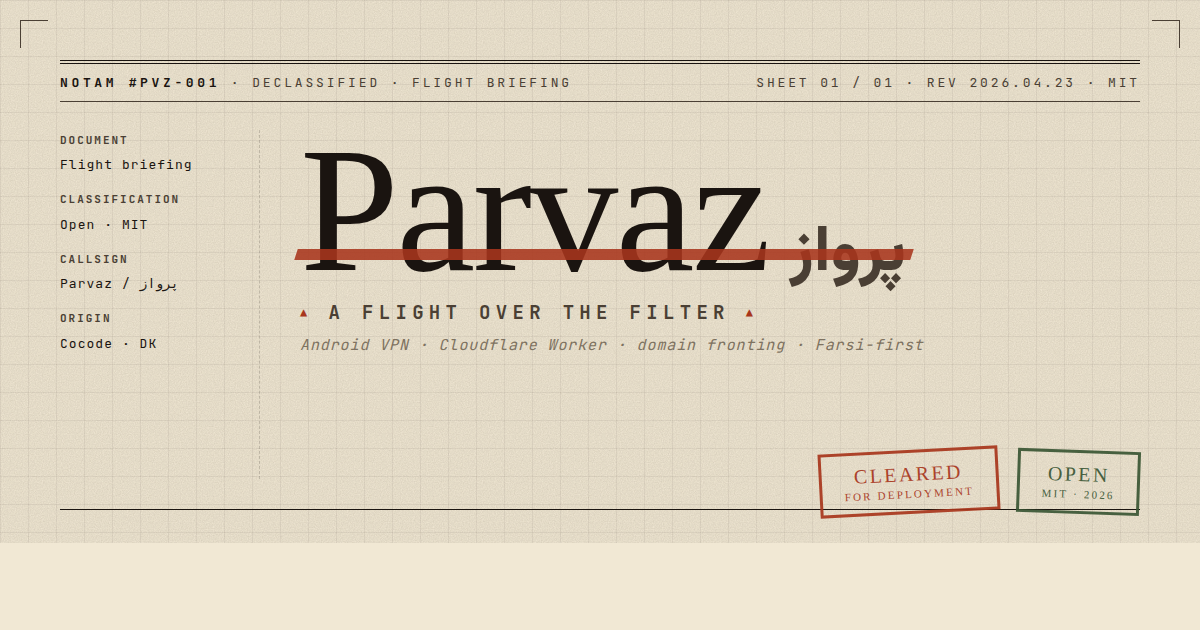
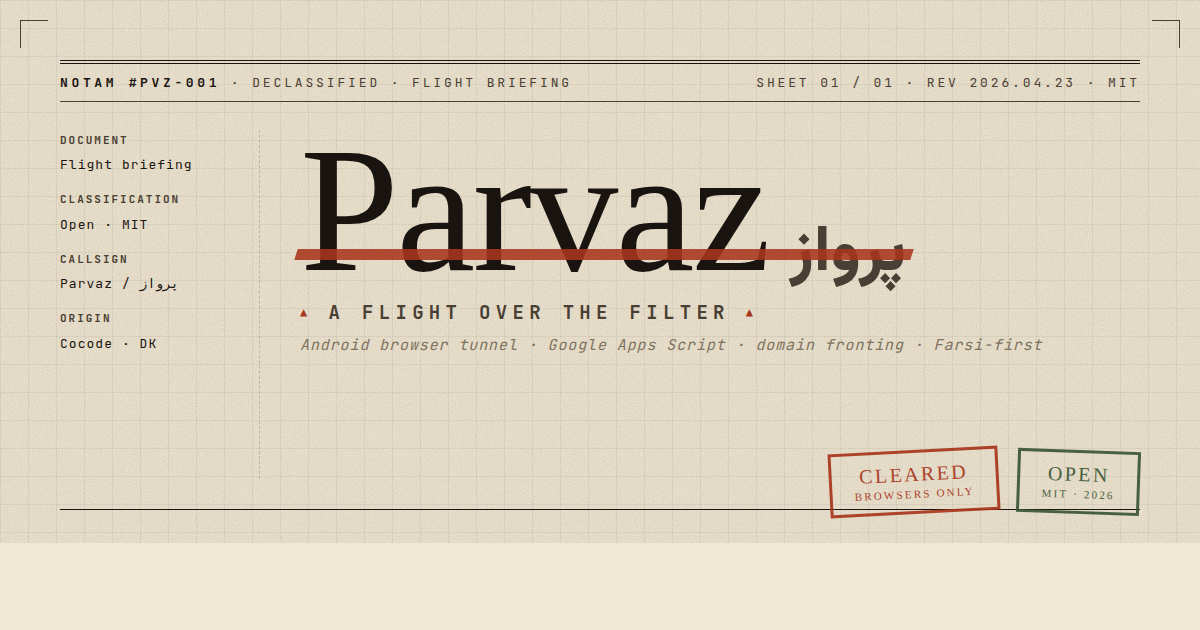
docs(website): revert EN + FA pages + og.png to Apps Script
Last stale surface after the Cloudflare revert. Copy edits only —
structural CSS/HTML unchanged. Kept NOTAM aesthetic intact. Honest
about browser-only scope everywhere.

- Titles / meta / Open Graph / Twitter / JSON-LD: flipped from
  "Cloudflare Worker" to "Apps Script"; programmingLanguage drops JS
- §1 Abstract: re-framed as browser tunnel; explicit "scope is
  browsers only"; links to MasterHttpRelayVPN-RUST as prior art
- §2 Flight path diagram: google edge :443, script.google.com,
  UrlFetchApp.fetch(target.com)
- §3 NOTAM body: Google Apps Script ToS disclaimer (not Cloudflare AUP)
- §4 Specs: SNI-rewrite fast path for google.com family; honest
  browsers-only spec; no more "raw TCP" claims
- §5 Boarding procedure: https://script.google.com deploy, not
  wrangler; parvaz:// URL now shows <deployment-id>/<access-key>
  instead of worker-host
- §6 Monorepo schematic: worker/ removed; protocol/ codec/ mitm/
  dispatcher/ visible
- §7 Ground support: points at reference/apps_script/Code.gs and
  MasterHttpRelayVPN-RUST for prebuilt APKs
- og-image.html + og.png: regenerated with new chips — ANDROID ·
  BROWSER / APPS SCRIPT RELAY / KOTLIN + GO / MITM + SNI REWRITE /
  FARSI-FIRST / ZERO TELEMETRY; "Cleared" subcaption now reads
  "browsers only"

zero Cloudflare references remain anywhere in the repo (grep-verified).

Changed region(s): [[0.3083, 0.5429, 0.8633, 0.573], [0.6783, 0.6937, 0.8325, 0.8444]]

diff --git a/website/fa/index.html b/website/fa/index.html
@@ -3,10 +3,10 @@
 <head>
 <meta charset="UTF-8"/>
 <meta name="viewport" content="width=device-width, initial-scale=1.0"/>
-<title>پرواز — پرواز از روی فیلتر. اپلیکیشن VPN اندروید روی Cloudflare Workers</title>
-<meta name="description" content="پرواز یک اپلیکیشن VPN اندروید برای کاربران ایرانی است که با تکنیک domain fronting، ترافیک گوشی شما را از طریق یک Cloudflare Worker که خودتان مستقر کردهاید عبور میدهد. یک APK، یک لمس، رابط فارسی."/>
+<title>پرواز — پرواز از روی فیلتر. تونل مرورگر اندروید از روی Apps Script</title>
+<meta name="description" content="پرواز یک تونل مرورگر اندروید با اولویت زبان فارسی برای کاربران ایرانی است که ترافیک Chrome / Firefox را از طریق یک رلهٔ Google Apps Script که خودتان مستقر کردهاید، با پنهانسازی TLS SNI عبور میدهد."/>
 <meta name="robots" content="index, follow"/>
-<meta name="keywords" content="پرواز, vpn اندروید, ایران, دور زدن فیلتر, کلودفلر, دامین فرانتینگ, vpnservice, کاتلین, go, فارسی, متنباز"/>
+<meta name="keywords" content="پرواز, تونل مرورگر, اندروید, ایران, اپس اسکریپت, دامین فرانتینگ, masterhttprelayvpn, دور زدن فیلتر, vpnservice, کاتلین, go, فارسی, متنباز"/>
 <link rel="canonical" href="https://cocodedk.github.io/parvaz/fa/"/>
 <link rel="alternate" hreflang="en" href="https://cocodedk.github.io/parvaz/"/>
 <link rel="alternate" hreflang="fa" href="https://cocodedk.github.io/parvaz/fa/"/>
@@ -15,7 +15,7 @@
 <meta property="og:type" content="website"/>
 <meta property="og:site_name" content="پرواز"/>
 <meta property="og:title" content="پرواز — پرواز از روی فیلتر"/>
-<meta property="og:description" content="اپلیکیشن VPN اندروید برای کاربران ایرانی. ترافیک گوشی شما را از یک Cloudflare Worker که خودتان مستقر میکنید عبور میدهد. یک APK، یک لمس، رابط کاملاً فارسی."/>
+<meta property="og:description" content="تونل مرورگر اندروید با اولویت فارسی — ترافیک Chrome / Firefox از طریق رلهٔ Google Apps Script شخصی شما با پنهانسازی SNI. یک APK، یک QR، تمام."/>
 <meta property="og:url" content="https://cocodedk.github.io/parvaz/fa/"/>
 <meta property="og:image" content="https://cocodedk.github.io/parvaz/og.png"/>
 <meta property="og:image:width" content="1200"/>
@@ -26,7 +26,7 @@
 
 <meta name="twitter:card" content="summary_large_image"/>
 <meta name="twitter:title" content="پرواز — پرواز از روی فیلتر"/>
-<meta name="twitter:description" content="اپلیکیشن VPN اندروید برای کاربران ایرانی — domain fronting از طریق Cloudflare Worker."/>
+<meta name="twitter:description" content="تونل مرورگر اندروید با اولویت فارسی — domain fronting از طریق Google Apps Script."/>
 <meta name="twitter:image" content="https://cocodedk.github.io/parvaz/og.png"/>
 
 <link rel="icon" type="image/svg+xml" href="../favicon.svg"/>
@@ -40,12 +40,12 @@
   "@context": "https://schema.org",
   "@type": "SoftwareApplication",
   "name": "پرواز",
-  "description": "اپلیکیشن VPN اندروید ساختهشده برای کاربران ایرانی بدون دانش فنی — ترافیک گوشی را از طریق یک Cloudflare Worker که خودتان یا یک دوست آشنا بهفن مستقر میکند عبور میدهد. رابط کاربری Kotlin + Compose به صورت پیشفرض فارسی، هستهٔ Go برای SOCKS5، سرور ~۵۰ خط JavaScript در Cloudflare Worker.",
+  "description": "تونل مرورگر اندروید ساختهشده برای کاربران ایرانی بدون دانش فنی — ترافیک Chrome / Firefox را از طریق یک رلهٔ Google Apps Script که خودتان یا دوستی آشنا بهفن مستقر میکند، با پنهانسازی TLS SNI و MITM محلی روی دستگاه عبور میدهد. رابط Kotlin + Compose به صورت پیشفرض فارسی، هستهٔ Go برای SOCKS5. اپلیکیشنهای غیرمرورگری (بانک، پیامرسان، استریمینگ) به دلیل محدودیت پیشفرض MITM در اندروید ۷+ تونل نمیشوند — محدودهٔ صادقانه: فقط مرورگر.",
   "url": "https://cocodedk.github.io/parvaz/fa/",
   "downloadUrl": "https://github.com/cocodedk/parvaz/releases/latest/download/Parvaz.apk",
   "applicationCategory": "UtilitiesApplication",
   "operatingSystem": "Android 7.0+",
-  "programmingLanguage": ["Kotlin", "Go", "JavaScript"],
+  "programmingLanguage": ["Kotlin", "Go"],
   "license": "https://opensource.org/licenses/MIT",
   "inLanguage": "fa",
   "offers": { "@type": "Offer", "price": "0", "priceCurrency": "USD" },
@@ -81,7 +81,7 @@
     <div>
       <h1 class="brand"><span class="fa-name">پرواز</span><span class="en-name">Parvaz</span></h1>
       <p class="tagline">پرواز از روی فیلتر</p>
-      <p class="subtitle">VPN اندروید · Cloudflare Worker · دامین فرانتینگ · اولویت با فارسی</p>
+      <p class="subtitle">تونل مرورگر اندروید · Google Apps Script · دامین فرانتینگ · اولویت با فارسی</p>
       <div class="cta-row">
         <a href="https://github.com/cocodedk/parvaz/releases/latest/download/Parvaz.apk" class="btn primary">آغاز فرود · دانلود APK</a>
         <a href="https://github.com/cocodedk/parvaz" class="btn">طرح پرواز · کد منبع</a>
@@ -97,8 +97,8 @@
       <span class="sec-stamp">شرح مأموریت</span>
     </div>
     <div class="sec-body">
-      <p>پرواز یک <strong>اپلیکیشن VPN اندروید</strong> برای کاربران ایرانی بدون دانش فنی است. یک فرد آشنا به فن — خویشاوند، داوطلب، فعال — یک <strong>Cloudflare Worker</strong> یکفایلی را روی حساب کاربری خودش مستقر میکند؛ کاربر یک لینک <code>parvaz://</code> را از تلگرام دریافت میکند، QR را اسکن میکند یا روی «چسباندن» میزند، و تمام ترافیک گوشی از طریق Worker آن شخص عبور میکند. TLS SNI به یک دامنهٔ محبوب کلودفلر، Host به <code>*.workers.dev</code> شما.</p>
-      <p>یک APK. یک لمس. به صورت پیشفرض فارسی. بدون Play Store، بدون ثبتنام، بدون تلهمتری. رابط کاربری Kotlin + Compose، هستهٔ Go برای SOCKS5، سرور ~۵۰ خط JavaScript. همه متنباز با مجوز MIT.</p>
+      <p>پرواز یک <strong>تونل مرورگر اندروید</strong> با اولویت فارسی برای کاربران ایرانی بدون دانش فنی است. یک فرد آشنا به فن — خویشاوند، داوطلب، فعال — پروندهٔ upstream <code>Code.gs</code> متعلق به MasterHttpRelayVPN را روی حساب Google خود مستقر میکند. کاربر لینک <code>parvaz://</code> را از تلگرام دریافت میکند، QR را اسکن یا «چسباندن» را میزند، یک بار گواهی MITM را از تنظیمات اندروید نصب میکند، و Connect را لمس میکند. ترافیک Chrome و Firefox از طریق Apps Script عبور میکند — TLS SNI <code>www.google.com</code>، HTTP Host <code>script.google.com</code>.</p>
+      <p><strong>محدودهٔ پرواز فقط مرورگر است.</strong> Instagram / Telegram / WhatsApp / اپهای بانکی به گواهی نصبشدهٔ کاربر اعتماد نمیکنند و تونل نمیشوند — این محدودیت عمومی MITM در اندروید است، نه باگ پرواز. معماری با پورت <a href="https://github.com/therealaleph/MasterHttpRelayVPN-RUST">MasterHttpRelayVPN-RUST</a> همتراز است؛ تفاوت پرواز در زیباییشناسی NOTAM، رابط پیشفرض فارسی، و راهاندازی سادهتر است.</p>
     </div>
   </section>
 
@@ -126,19 +126,19 @@
                    │
                    │  envelope:  { k · m · u · h · b }
                    │
-                   │  TLS  SNI   <span class="hl">www.cloudflare.com</span>         <span class="note">← DPI sees this</span>
-                   │  HTTP Host  <span class="secret">your-worker.workers.dev</span>   <span class="note">← real routing</span>
+                   │  TLS  SNI   <span class="hl">www.google.com</span>             <span class="note">← DPI sees this</span>
+                   │  HTTP Host  <span class="secret">script.google.com</span>          <span class="note">← real routing</span>
                    ▼
        ═══════════════════════════════
-       ║   cloudflare edge :443      ║
+       ║   google edge    :443       ║
        ═══════════════════════════════
                    │
-                   │  <span class="dir">Cloudflare routes internally by Host</span>
+                   │  <span class="dir">Google routes internally by Host</span>
                    ▼
   ┌───────────────────────────────────┐
-  │  your worker.js deployment        │   <span class="note">◀─ your cloudflare account</span>
+  │  your Code.gs deployment          │   <span class="note">◀─ your google account</span>
   └────────────────┬──────────────────┘
-                   │  connect() raw TCP → target.com
+                   │  UrlFetchApp.fetch(target.com)
                    ▼
             { s · h · b }                  <span class="note">← response envelope</span>
 </pre>
@@ -161,7 +161,7 @@
         <span>NOTAM A0001/26</span>
       </div>
       <div class="notam-body">
-        <strong>سیاست استفادهٔ قابلقبول Cloudflare دربارهٔ سرویسهای پراکسی سختگیر است.</strong> Worker را فقط روی حساب کاربری <em>خودتان</em> در Cloudflare مستقر کنید — متمرکزسازی مستقرسازی یا توزیع Worker به افراد ناشناس ممنوع است. فقط برای استفادهٔ شخصی، تحقیقاتی و آموزشی.
+        <strong>شرایط استفادهٔ Google Apps Script این کاربرد را ممنوع اعلام کرده است.</strong> <code>Code.gs</code> را فقط روی حساب Google <em>خودتان</em> مستقر کنید — مستقرسازی متمرکز یا توزیع یک deployment مشترک ممنوع است. فقط برای استفادهٔ شخصی، تحقیقاتی و آموزشی. اگر با پیامدهای حقوقی آشنا نیستید، آن را مستقر نکنید.
       </div>
     </div>
   </section>
@@ -173,12 +173,12 @@
       <span class="sec-stamp">ویژگیها</span>
     </div>
     <div class="specs">
-      <div class="spec"><span class="spec-num">۰۱</span><span class="spec-key">دامین فرانتینگ</span><span class="spec-val">TLS SNI یک دامنهٔ پرترافیک کلودفلر است. HTTP Host آدرس <code>*.workers.dev</code> شماست. DPI فقط «ترافیک کلودفلر» را میبیند؛ کلودفلر بر اساس Host واقعی به صورت داخلی مسیریابی میکند.</span></div>
-      <div class="spec"><span class="spec-num">۰۲</span><span class="spec-key">یک لمس، فارسی اول</span><span class="spec-val">لینک <code>parvaz://</code> را از تلگرام بچسبانید یا QR را اسکن کنید → Connect را بزنید. <code>VpnService</code> همهٔ ترافیک گوشی را میگیرد. رابط به صورت پیشفرض فارسی است؛ انگلیسی فقط بازنویسی.</span></div>
-      <div class="spec"><span class="spec-num">۰۳</span><span class="spec-key">APK متنباز</span><span class="spec-val">رابط Kotlin + Compose، هستهٔ تعبیهشدهٔ Go برای SOCKS5، Worker ~۵۰ خطی JavaScript. بدون وابستگی انحصاری. خارج از Play Store — فقط F-Droid و sideload.</span></div>
-      <div class="spec"><span class="spec-num">۰۴</span><span class="spec-key">دستنامهٔ میدانی</span><span class="spec-val">زیباییشناسی NOTAM. تایپوگرافی Vazirmatn (فارسی)، Redaction (نمایشی)، JetBrains Mono (کد). رابط فارسی از پایه — RTL درجه یک، نه یک الحاقیه.</span></div>
-      <div class="spec"><span class="spec-num">۰۵</span><span class="spec-key">عبور خام TCP</span><span class="spec-val">Worker از API <code>cloudflare:sockets</code> <code>connect()</code> استفاده میکند — سوکت TCP خروجی واقعی باز میکند. بایتها بدون دستکاری عبور میکنند — بدون MITM، بدون نصب CA، همهٔ اپها کار میکنند.</span></div>
-      <div class="spec"><span class="spec-num">۰۶</span><span class="spec-key">بدون تلهمتری</span><span class="spec-val">بدون آنالیتیکس، بدون پینگ بهروزرسانی، بدون گزارش کرش. کلید دسترسی شما در <code>EncryptedSharedPreferences</code> میماند. هیچ تماس شبکهای به خارج، جز خود Worker.</span></div>
+      <div class="spec"><span class="spec-num">۰۱</span><span class="spec-key">دامین فرانتینگ</span><span class="spec-val">TLS SNI میگوید <code>www.google.com</code>. HTTP Host میگوید <code>script.google.com</code>. DPI فقط فرانت را میبیند؛ Google بر اساس Host واقعی به صورت داخلی مسیریابی میکند.</span></div>
+      <div class="spec"><span class="spec-num">۰۲</span><span class="spec-key">راهاندازی فارسی اول</span><span class="spec-val">لینک <code>parvaz://</code> را از تلگرام بچسبانید یا QR را اسکن کنید → یک بار گواهی MITM را از تنظیمات نصب کنید → Connect بزنید. رابط به صورت پیشفرض فارسی است؛ انگلیسی فقط بازنویسی.</span></div>
+      <div class="spec"><span class="spec-num">۰۳</span><span class="spec-key">فقط مرورگر — صادقانه</span><span class="spec-val">Chrome و Firefox بهدرستی تونل میشوند. Instagram، Telegram، WhatsApp، اپهای بانکی به صورت پیشفرض به گواهی نصبشدهٔ کاربر اعتماد نمیکنند و تونل <em>نمیشوند</em>. محدودیت عمومی MITM اندروید — برای آنها xray + VPS جداگانه نیاز است.</span></div>
+      <div class="spec"><span class="spec-num">۰۴</span><span class="spec-key">مسیر سریع SNI-rewrite</span><span class="spec-val">دامنههای متعلق به Google (google.com، youtube.com، fonts.googleapis.com و …) مستقیماً با بازنویسی SNI تونل میشوند و از Apps Script عبور نمیکنند. بدون MITM، بدون سهمیهٔ Apps Script، سرعت کامل.</span></div>
+      <div class="spec"><span class="spec-num">۰۵</span><span class="spec-key">APK متنباز</span><span class="spec-val">رابط Kotlin + Compose، هستهٔ تعبیهشدهٔ Go برای SOCKS5. بدون وابستگی انحصاری. خارج از Play Store — فقط F-Droid و sideload.</span></div>
+      <div class="spec"><span class="spec-num">۰۶</span><span class="spec-key">بدون تلهمتری</span><span class="spec-val">بدون آنالیتیکس، بدون پینگ بهروزرسانی، بدون گزارش کرش. کلید دسترسی شما در <code>EncryptedSharedPreferences</code> میماند. هیچ تماس شبکهای به خارج، جز خود رله.</span></div>
     </div>
   </section>
 
@@ -193,18 +193,20 @@
         <span>proc · install.001</span>
         <span>sh · POSIX</span>
       </div>
-      <div class="listing-body"><span class="c"># ۱. فرد آشنا به فن: Worker را روی حساب Cloudflare خودش مستقر میکند</span>
-cd worker
-<span class="k">npx</span> wrangler deploy    <span class="c"># → wss://your-worker.workers.dev</span>
+      <div class="listing-body"><span class="c"># ۱. فرد آشنا به فن: reference/apps_script/Code.gs را روی حساب Google خودش مستقر میکند</span>
+open https://script.google.com   <span class="c"># پروژهٔ جدید → Code.gs را بچسبانید → AUTH_KEY را تنظیم کنید</span>
+Deploy → New deployment → Web app → Execute as Me → Anyone
+<span class="c"># بخش AKfycby... از URL استقرار را کپی کنید</span>
 
 <span class="c"># ۲. فرد آشنا به فن: لینک دسترسی را از طریق تلگرام میفرستد</span>
-parvaz://your-worker.workers.dev/<span class="hl">&lt;کلید-دسترسی&gt;</span>#رلهٔمن
+parvaz://<span class="hl">&lt;شناسهٔ-استقرار&gt;</span>/<span class="hl">&lt;کلید-دسترسی&gt;</span>#رلهٔمن
 
 <span class="c"># ۳. کاربر: پرواز را نصب میکند، روی لینک میزند (یا QR را اسکن میکند)</span>
 curl -LO https://github.com/cocodedk/parvaz/releases/latest/download/Parvaz.apk
 adb install Parvaz.apk
+<span class="c"># وقتی پرسید، گواهی MITM را نصب کنید، سپس Connect را بزنید</span>
 
-<span class="c"># ۴. پرواز.</span></div>
+<span class="c"># ۴. پرواز (در Chrome / Firefox).</span></div>
     </div>
   </section>
 
@@ -221,18 +223,21 @@ adb install Parvaz.apk
       </div>
       <pre class="schematic-body">parvaz/
 ├── <span class="hl">app/</span>             رابط Kotlin + Compose (فارسی پیشفرض)
-│                 · VpnService · tun2socks · launcher · تم NOTAM
+│                 · VpnService · tun2socks · نصب CA · تم NOTAM
 ├── <span class="hl">core/</span>            sidecar Go برای SOCKS5
 │   ├── <span class="hl">fronter/</span>     dialer با SNI دلخواه + کلاینت HTTP
-│   ├── <span class="hl">relay/</span>       تونل WebSocket به Worker
+│   ├── <span class="hl">protocol/</span>    انکد/دیکد envelope JSON برای Apps Script
+│   ├── <span class="hl">codec/</span>       دیکودر gzip / br / zstd
+│   ├── <span class="hl">relay/</span>       چسب: envelope + کلاینت فرانتشده
+│   ├── <span class="hl">mitm/</span>        (بعدی) CA + گواهیهای leaf + سرور TLS
+│   ├── <span class="hl">dispatcher/</span>  (بعدی) تصمیم: SNI-rewrite یا MITM+relay
 │   ├── <span class="hl">socks5/</span>      listener محلی SOCKS5 روی ۱۰۸۰
 │   └── <span class="hl">cmd/parvazd/</span> باینری sidecar → libparvaz.so
-├── <span class="hl">worker/</span>          Cloudflare Worker (worker.js, wrangler.toml)
-├── reference/      MasterHttpRelayVPN · فقط-خواندنی (محصول عوض شد)
+├── reference/      MasterHttpRelayVPN · upstream پایتون (فقط-خواندنی)
 └── website/        GitHub Pages دو-زبانه
 
 <span class="note">· core از app با ProcessBuilder صدا زده میشود، نه JNI</span>
-<span class="note">· یک APK + یک worker.js + یک تگ ریلیز — monorepo</span>
+<span class="note">· یک APK + یک Code.gs + یک تگ ریلیز</span>
 </pre>
       <div class="schematic-foot">
         <span>drawn by · parvaz.doc</span>
@@ -248,7 +253,7 @@ adb install Parvaz.apk
       <span class="sec-stamp">موردنیاز · upstream</span>
     </div>
     <div class="sec-body">
-      <p>پرواز از بکاند Apps Script در MasterHttpRelayVPN فاصله گرفت — <code>UrlFetchApp.fetch()</code> مبتنی بر URL است و نمیتواند بایتهای HTTPS را بدون MITM عبور دهد، و اندروید ۷+ به CAهای نصبشدهٔ کاربر به صورت پیشفرض اعتماد نمیکند. نیمهٔ سرور جدید یک <a href="https://github.com/cocodedk/parvaz/blob/main/worker/worker.js">Cloudflare Worker</a> ~۵۰ خطی است که از API <code>cloudflare:sockets</code> برای TCP خروجی خام استفاده میکند. برای استقرار ۵ مرحلهای، <a href="https://github.com/cocodedk/parvaz/blob/main/worker/README.md">worker/README.md</a> را ببینید.</p>
+      <p>پرواز فقط نیمهٔ <em>کلاینت</em> MasterHttpRelayVPN را جایگزین میکند. سرور Apps Script همان <a href="https://github.com/cocodedk/parvaz/blob/main/reference/apps_script/Code.gs">Code.gs</a> upstream است — بدون تغییر روی حساب Google خودتان مستقر کنید. اگر به ظرافتهای UX پرواز (فارسی پیشفرض، زیباییشناسی NOTAM) نیاز ندارید، پورت رست <a href="https://github.com/therealaleph/MasterHttpRelayVPN-RUST">MasterHttpRelayVPN-RUST</a> امروز با APKهای آماده و راهنمای کامل انگلیسی + فارسی در دسترس است.</p>
     </div>
   </section>
 

diff --git a/website/index.html b/website/index.html
@@ -3,10 +3,10 @@
 <head>
 <meta charset="UTF-8"/>
 <meta name="viewport" content="width=device-width, initial-scale=1.0"/>
-<title>Parvaz — A flight over the filter. Android VPN over Cloudflare Workers.</title>
-<meta name="description" content="Parvaz is an Android VPN for Iranian users that tunnels phone traffic through a user-deployed Cloudflare Worker using domain fronting. One APK, one tap, Farsi-first."/>
+<title>Parvaz — A flight over the filter. Android browser tunnel via Apps Script.</title>
+<meta name="description" content="Parvaz is a Farsi-first Android browser tunnel for Iranian users that routes Chrome / Firefox traffic through a user-deployed Google Apps Script relay using TLS SNI concealment."/>
 <meta name="robots" content="index, follow"/>
-<meta name="keywords" content="parvaz, android vpn, iran, cloudflare workers, domain fronting, circumvention, vpnservice, kotlin, go, farsi, open source"/>
+<meta name="keywords" content="parvaz, android, browser tunnel, iran, apps script, domain fronting, masterhttprelayvpn, circumvention, vpnservice, kotlin, go, farsi, open source"/>
 <link rel="canonical" href="https://cocodedk.github.io/parvaz/"/>
 <link rel="alternate" hreflang="en" href="https://cocodedk.github.io/parvaz/"/>
 <link rel="alternate" hreflang="fa" href="https://cocodedk.github.io/parvaz/fa/"/>
@@ -16,7 +16,7 @@
 <meta property="og:type" content="website"/>
 <meta property="og:site_name" content="Parvaz"/>
 <meta property="og:title" content="Parvaz — A flight over the filter"/>
-<meta property="og:description" content="Android VPN for Iranian users. Tunnels phone traffic through a user-deployed Cloudflare Worker via a WebSocket. One APK, one tap, Farsi-first."/>
+<meta property="og:description" content="Farsi-first Android browser tunnel for Iranian users. Routes Chrome / Firefox through a user-deployed Google Apps Script relay with TLS SNI concealment."/>
 <meta property="og:url" content="https://cocodedk.github.io/parvaz/"/>
 <meta property="og:image" content="https://cocodedk.github.io/parvaz/og.png"/>
 <meta property="og:image:width" content="1200"/>
@@ -28,7 +28,7 @@
 <!-- Twitter -->
 <meta name="twitter:card" content="summary_large_image"/>
 <meta name="twitter:title" content="Parvaz — A flight over the filter"/>
-<meta name="twitter:description" content="Android VPN for Iranian users that tunnels traffic through a user-deployed Cloudflare Worker. Farsi-first, one-tap."/>
+<meta name="twitter:description" content="Farsi-first Android browser tunnel — Chrome / Firefox through your own Google Apps Script relay. One APK, QR scan, done."/>
 <meta name="twitter:image" content="https://cocodedk.github.io/parvaz/og.png"/>
 <meta name="twitter:image:alt" content="Parvaz — declassified flight briefing document."/>
 
@@ -43,12 +43,12 @@
   "@context": "https://schema.org",
   "@type": "SoftwareApplication",
   "name": "Parvaz",
-  "description": "Android VPN app for Iranian users that tunnels phone traffic through a user-deployed Cloudflare Worker via a WebSocket TCP passthrough with domain fronting. Kotlin + Compose front end, embedded Go SOCKS5 sidecar, Farsi-first UX.",
+  "description": "Farsi-first Android browser tunnel for Iranian users — routes Chrome / Firefox traffic through a user-deployed Google Apps Script relay using TLS SNI concealment and a local on-device MITM to terminate TLS for re-encapsulation. Kotlin + Compose front end, embedded Go SOCKS5 sidecar. Non-browser apps reject user-installed CAs and will not tunnel — scope is browser traffic only.",
   "url": "https://cocodedk.github.io/parvaz/",
   "downloadUrl": "https://github.com/cocodedk/parvaz/releases/latest/download/Parvaz.apk",
   "applicationCategory": "UtilitiesApplication",
   "operatingSystem": "Android 7.0+",
-  "programmingLanguage": ["Kotlin", "Go", "JavaScript"],
+  "programmingLanguage": ["Kotlin", "Go"],
   "license": "https://opensource.org/licenses/MIT",
   "offers": { "@type": "Offer", "price": "0", "priceCurrency": "USD" },
   "author": {
@@ -65,7 +65,7 @@
 
 <div class="doc-strip">
   <span><strong>NOTAM #PVZ-001</strong> · Declassified · Flight briefing</span>
-  <span>Sheet 01 / 01 · Rev 2026.04.23 · Status // Pre-alpha (pivoted to Cloudflare)</span>
+  <span>Sheet 01 / 01 · Rev 2026.04.23 · Status // Pre-alpha · Browsers only</span>
 </div>
 
 <a href="fa/" class="lang-switch">فارسی ⇄ FA</a>
@@ -83,7 +83,7 @@
     <div>
       <h1 class="brand"><span class="en-name">Parvaz</span><span class="fa-name">پرواز</span></h1>
       <p class="tagline">A flight over the filter</p>
-      <p class="subtitle">Android VPN · Cloudflare Worker · domain fronting · Farsi-first</p>
+      <p class="subtitle">Android browser tunnel · Google Apps Script · domain fronting · Farsi-first</p>
       <div class="cta-row">
         <a href="https://github.com/cocodedk/parvaz/releases/latest/download/Parvaz.apk" class="btn primary">Begin descent · Download APK</a>
         <a href="https://github.com/cocodedk/parvaz" class="btn">Flight plan · Source</a>
@@ -99,8 +99,8 @@
       <span class="sec-stamp">Mission brief</span>
     </div>
     <div class="sec-body">
-      <p>Parvaz is an <strong>Android VPN app</strong> built for Iranian users with no technical background. A helper deploys a one-file <strong>Cloudflare Worker</strong>; the user receives a <code>parvaz://</code> link over Telegram, scans a QR or taps Paste, and every byte of phone traffic tunnels through their own Worker — TLS SNI to a popular Cloudflare-hosted site, HTTP Host to the user's <code>*.workers.dev</code> deployment.</p>
-      <p>One APK. One tap. Farsi-first. No Play Store, no account, no telemetry. Kotlin + Compose front end. Go SOCKS5 sidecar. ~50-line JavaScript Worker. All open source, MIT-licensed.</p>
+      <p>Parvaz is a Farsi-first <strong>Android browser tunnel</strong> for Iranian users with no technical background. A helper deploys the upstream MasterHttpRelayVPN <code>Code.gs</code> on their own Google account; the user receives a <code>parvaz://</code> link over Telegram, scans a QR or taps Paste, installs a MITM certificate via Android Settings once, and taps Connect. Chrome and Firefox traffic routes through Apps Script — TLS SNI <code>www.google.com</code>, HTTP Host <code>script.google.com</code>.</p>
+      <p><strong>Scope is browsers only.</strong> Instagram / Telegram / WhatsApp / banking apps reject user-installed CAs and will not tunnel — this is a general Android MITM constraint, not a Parvaz bug. Architecturally aligned with the proven <a href="https://github.com/therealaleph/MasterHttpRelayVPN-RUST">MasterHttpRelayVPN-RUST</a> port; Parvaz's edge is NOTAM visual identity, Farsi-by-default UI, and tighter onboarding.</p>
     </div>
   </section>
 
@@ -128,19 +128,19 @@
                    │
                    │  envelope:  { k · m · u · h · b }
                    │
-                   │  TLS  SNI   <span class="hl">www.cloudflare.com</span>         <span class="note">← what DPI sees</span>
-                   │  HTTP Host  <span class="secret">your-worker.workers.dev</span>   <span class="note">← real routing</span>
+                   │  TLS  SNI   <span class="hl">www.google.com</span>             <span class="note">← what DPI sees</span>
+                   │  HTTP Host  <span class="secret">script.google.com</span>          <span class="note">← real routing</span>
                    ▼
        ═══════════════════════════════
-       ║   cloudflare edge :443      ║
+       ║   google edge    :443       ║
        ═══════════════════════════════
                    │
-                   │  <span class="dir">Cloudflare routes internally by Host</span>
+                   │  <span class="dir">Google routes internally by Host</span>
                    ▼
   ┌───────────────────────────────────┐
-  │  your worker.js deployment        │   <span class="note">◀─ your cloudflare account</span>
+  │  your Code.gs deployment          │   <span class="note">◀─ your google account</span>
   └────────────────┬──────────────────┘
-                   │  connect() raw TCP → target.com
+                   │  UrlFetchApp.fetch(target.com)
                    ▼
             { s · h · b }                  <span class="note">← response envelope</span>
 </pre>
@@ -163,7 +163,7 @@
         <span>NOTAM A0001/26</span>
       </div>
       <div class="notam-body">
-        <strong>Cloudflare's acceptable-use policy is strict about proxy services.</strong> Deploy the Worker to your <em>own</em> Cloudflare account only — do not centralize deployments, do not commercialise, do not share your worker with strangers you can't vouch for. Personal, research, and educational use only.
+        <strong>Google Apps Script's terms forbid this use.</strong> Deploy the <code>Code.gs</code> to your <em>own</em> Google account only — do not centralize deployments, do not commercialise, do not distribute a shared one. Personal, research, and educational use only. If you do not understand the legal implications, do not deploy.
       </div>
     </div>
   </section>
@@ -175,12 +175,12 @@
       <span class="sec-stamp">Features</span>
     </div>
     <div class="specs">
-      <div class="spec"><span class="spec-num">01</span><span class="spec-key">Domain fronting</span><span class="spec-val">TLS SNI says a popular Cloudflare-hosted site. HTTP Host says your <code>*.workers.dev</code>. DPI sees "Cloudflare traffic"; Cloudflare routes by the real Host internally.</span></div>
-      <div class="spec"><span class="spec-num">02</span><span class="spec-key">One-tap, Farsi-first</span><span class="spec-val">Paste a <code>parvaz://</code> URL or scan a QR from Telegram → tap Connect. <code>VpnService</code> captures all phone traffic. UI defaults to Persian; English is the override.</span></div>
-      <div class="spec"><span class="spec-num">03</span><span class="spec-key">Open source APK</span><span class="spec-val">Kotlin + Compose front end, embedded Go SOCKS5 sidecar, ~50-line Cloudflare Worker. No proprietary deps. Ships outside the Play Store — F-Droid and sideload only.</span></div>
-      <div class="spec"><span class="spec-num">04</span><span class="spec-key">Light-theme field manual</span><span class="spec-val">NOTAM aesthetic. Vazirmatn (Persian), Redaction (display), JetBrains Mono (code). Persian UI built in — first-class RTL, not an afterthought.</span></div>
-      <div class="spec"><span class="spec-num">05</span><span class="spec-key">Raw TCP passthrough</span><span class="spec-val">The Worker uses <code>cloudflare:sockets</code> <code>connect()</code> to open a real outbound TCP socket. Bytes pass through opaque — no MITM, no CA install, every app works.</span></div>
-      <div class="spec"><span class="spec-num">06</span><span class="spec-key">Zero telemetry</span><span class="spec-val">No analytics, no auto-update pings, no crash reporting. Your access key stays in <code>EncryptedSharedPreferences</code>. No third-party network calls other than the Worker itself.</span></div>
+      <div class="spec"><span class="spec-num">01</span><span class="spec-key">Domain fronting</span><span class="spec-val">TLS SNI says <code>www.google.com</code>. HTTP Host says <code>script.google.com</code>. DPI sees the front; Google's edge routes by the real Host internally.</span></div>
+      <div class="spec"><span class="spec-num">02</span><span class="spec-key">Farsi-first onboarding</span><span class="spec-val">Paste a <code>parvaz://</code> URL or scan a QR from Telegram → install the MITM certificate once → tap Connect. UI defaults to Persian; English is the override.</span></div>
+      <div class="spec"><span class="spec-num">03</span><span class="spec-key">Browsers only — honest</span><span class="spec-val">Chrome + Firefox tunnel correctly. Instagram, Telegram, WhatsApp, banking apps reject the user-installed CA by default and will <em>not</em> tunnel. General Android MITM limitation — pair with xray + VPS for those.</span></div>
+      <div class="spec"><span class="spec-num">04</span><span class="spec-key">SNI-rewrite fast path</span><span class="spec-val">Google-owned hosts (google.com, youtube.com, fonts.googleapis.com, …) skip Apps Script entirely and tunnel directly via SNI rewrite. No MITM, no Apps Script quota, full speed.</span></div>
+      <div class="spec"><span class="spec-num">05</span><span class="spec-key">Open source APK</span><span class="spec-val">Kotlin + Compose front end, embedded Go SOCKS5 sidecar. No proprietary dependencies. Ships outside the Play Store — F-Droid and sideload only.</span></div>
+      <div class="spec"><span class="spec-num">06</span><span class="spec-key">Zero telemetry</span><span class="spec-val">No analytics, no auto-update pings, no crash reporting. Your access key stays in <code>EncryptedSharedPreferences</code>. No third-party network calls other than the relay itself.</span></div>
     </div>
   </section>
 
@@ -195,18 +195,20 @@
         <span>proc · install.001</span>
         <span>sh · POSIX</span>
       </div>
-      <div class="listing-body"><span class="c"># 1. helper: deploy the worker to your own cloudflare account</span>
-cd worker
-<span class="k">npx</span> wrangler deploy    <span class="c"># → wss://your-worker.workers.dev</span>
+      <div class="listing-body"><span class="c"># 1. helper: deploy reference/apps_script/Code.gs to your google account</span>
+open https://script.google.com   <span class="c"># New project → paste Code.gs → set AUTH_KEY</span>
+Deploy → New deployment → Web app → Execute as Me → Anyone
+<span class="c"># copy the AKfycby... segment of the deployment URL</span>
 
 <span class="c"># 2. helper: share the access URL over Telegram</span>
-parvaz://your-worker.workers.dev/<span class="hl">&lt;access-key&gt;</span>#رلهٔمن
+parvaz://<span class="hl">&lt;deployment-id&gt;</span>/<span class="hl">&lt;access-key&gt;</span>#رلهٔمن
 
 <span class="c"># 3. user: install parvaz.apk and tap the parvaz:// link (or scan QR)</span>
 curl -LO https://github.com/cocodedk/parvaz/releases/latest/download/Parvaz.apk
 adb install Parvaz.apk
+<span class="c"># install the MITM certificate when prompted, then tap Connect</span>
 
-<span class="c"># 4. fly.</span></div>
+<span class="c"># 4. fly (in Chrome / Firefox).</span></div>
     </div>
   </section>
 
@@ -223,18 +225,21 @@ adb install Parvaz.apk
       </div>
       <pre class="schematic-body">parvaz/
 ├── <span class="hl">app/</span>             kotlin + compose UI · VpnService · tun2socks
-│                 · sidecar launcher · NOTAM theme · farsi-first
+│                 · sidecar launcher · MITM CA install · NOTAM
 ├── <span class="hl">core/</span>            go SOCKS5 sidecar
 │   ├── <span class="hl">fronter/</span>     TLS-with-custom-SNI dialer + HTTP client
-│   ├── <span class="hl">relay/</span>       WebSocket tunnel to the worker
+│   ├── <span class="hl">protocol/</span>    Apps Script JSON envelope encode/decode
+│   ├── <span class="hl">codec/</span>       gzip / br / zstd decoders
+│   ├── <span class="hl">relay/</span>       envelope + fronted client glue
+│   ├── <span class="hl">mitm/</span>        (next) CA + leaf certs + TLS server
+│   ├── <span class="hl">dispatcher/</span>  (next) SNI-rewrite vs MITM+relay decision
 │   ├── <span class="hl">socks5/</span>      local SOCKS5 listener on :1080
 │   └── <span class="hl">cmd/parvazd/</span> sidecar main → libparvaz.so (per ABI)
-├── <span class="hl">worker/</span>          cloudflare worker (worker.js, wrangler.toml)
-├── reference/      MasterHttpRelayVPN · historical (product pivoted)
+├── reference/      MasterHttpRelayVPN · upstream python (read-only)
 └── website/        bilingual GitHub Pages
 
 <span class="note">· core is called from app via ProcessBuilder, not JNI</span>
-<span class="note">· one apk + one worker.js + one release tag — monorepo</span>
+<span class="note">· one apk + one Code.gs drop-in + one release tag</span>
 </pre>
       <div class="schematic-foot">
         <span>drawn by · parvaz.doc</span>
@@ -250,7 +255,7 @@ adb install Parvaz.apk
       <span class="sec-stamp">Required · upstream</span>
     </div>
     <div class="sec-body">
-      <p>Parvaz pivoted away from the MasterHttpRelayVPN Apps Script backend — <code>UrlFetchApp.fetch()</code> is URL-based HTTP and cannot tunnel opaque HTTPS without MITM, and Android 7+ won't trust user-installed CAs per-app. The new server half is a ~50-line <a href="https://github.com/cocodedk/parvaz/blob/main/worker/worker.js">Cloudflare Worker</a> that uses the <code>cloudflare:sockets</code> API for raw outbound TCP. See <a href="https://github.com/cocodedk/parvaz/blob/main/worker/README.md">worker/README.md</a> for the 5-step deployment.</p>
+      <p>Parvaz replaces only the <em>client</em> half of MasterHttpRelayVPN. The Apps Script server is the upstream <a href="https://github.com/cocodedk/parvaz/blob/main/reference/apps_script/Code.gs">Code.gs</a> unchanged — deploy it to your own Google account. If you don't need the Farsi-first NOTAM UX touches Parvaz adds, the mature <a href="https://github.com/therealaleph/MasterHttpRelayVPN-RUST">MasterHttpRelayVPN-RUST</a> port ships today with prebuilt APKs and an English + Persian walkthrough.</p>
     </div>
   </section>
 

diff --git a/website/og-image.html b/website/og-image.html
@@ -180,18 +180,18 @@
     <div class="hero">
       <h1>Parvaz<span class="fa-name">پرواز</span></h1>
       <div class="tagline">A flight over the filter</div>
-      <div class="subtitle">Android VPN · Cloudflare Worker · domain fronting · Farsi-first</div>
+      <div class="subtitle">Android browser tunnel · Google Apps Script · domain fronting · Farsi-first</div>
 
       <div class="stamps">
-        <div class="stamp">Cleared<small>for deployment</small></div>
+        <div class="stamp">Cleared<small>browsers only</small></div>
         <div class="stamp safe">Open<small>MIT · 2026</small></div>
       </div>
 
       <div class="chips">
-        <span class="chip">ANDROID VPN</span>
-        <span class="chip">CLOUDFLARE WORKER</span>
-        <span class="chip">KOTLIN · GO · JS</span>
-        <span class="chip">RAW TCP TUNNEL</span>
+        <span class="chip">ANDROID · BROWSER</span>
+        <span class="chip">APPS SCRIPT RELAY</span>
+        <span class="chip">KOTLIN + GO</span>
+        <span class="chip">MITM + SNI REWRITE</span>
         <span class="chip burnt">FARSI-FIRST</span>
         <span class="chip">ZERO TELEMETRY</span>
       </div>
